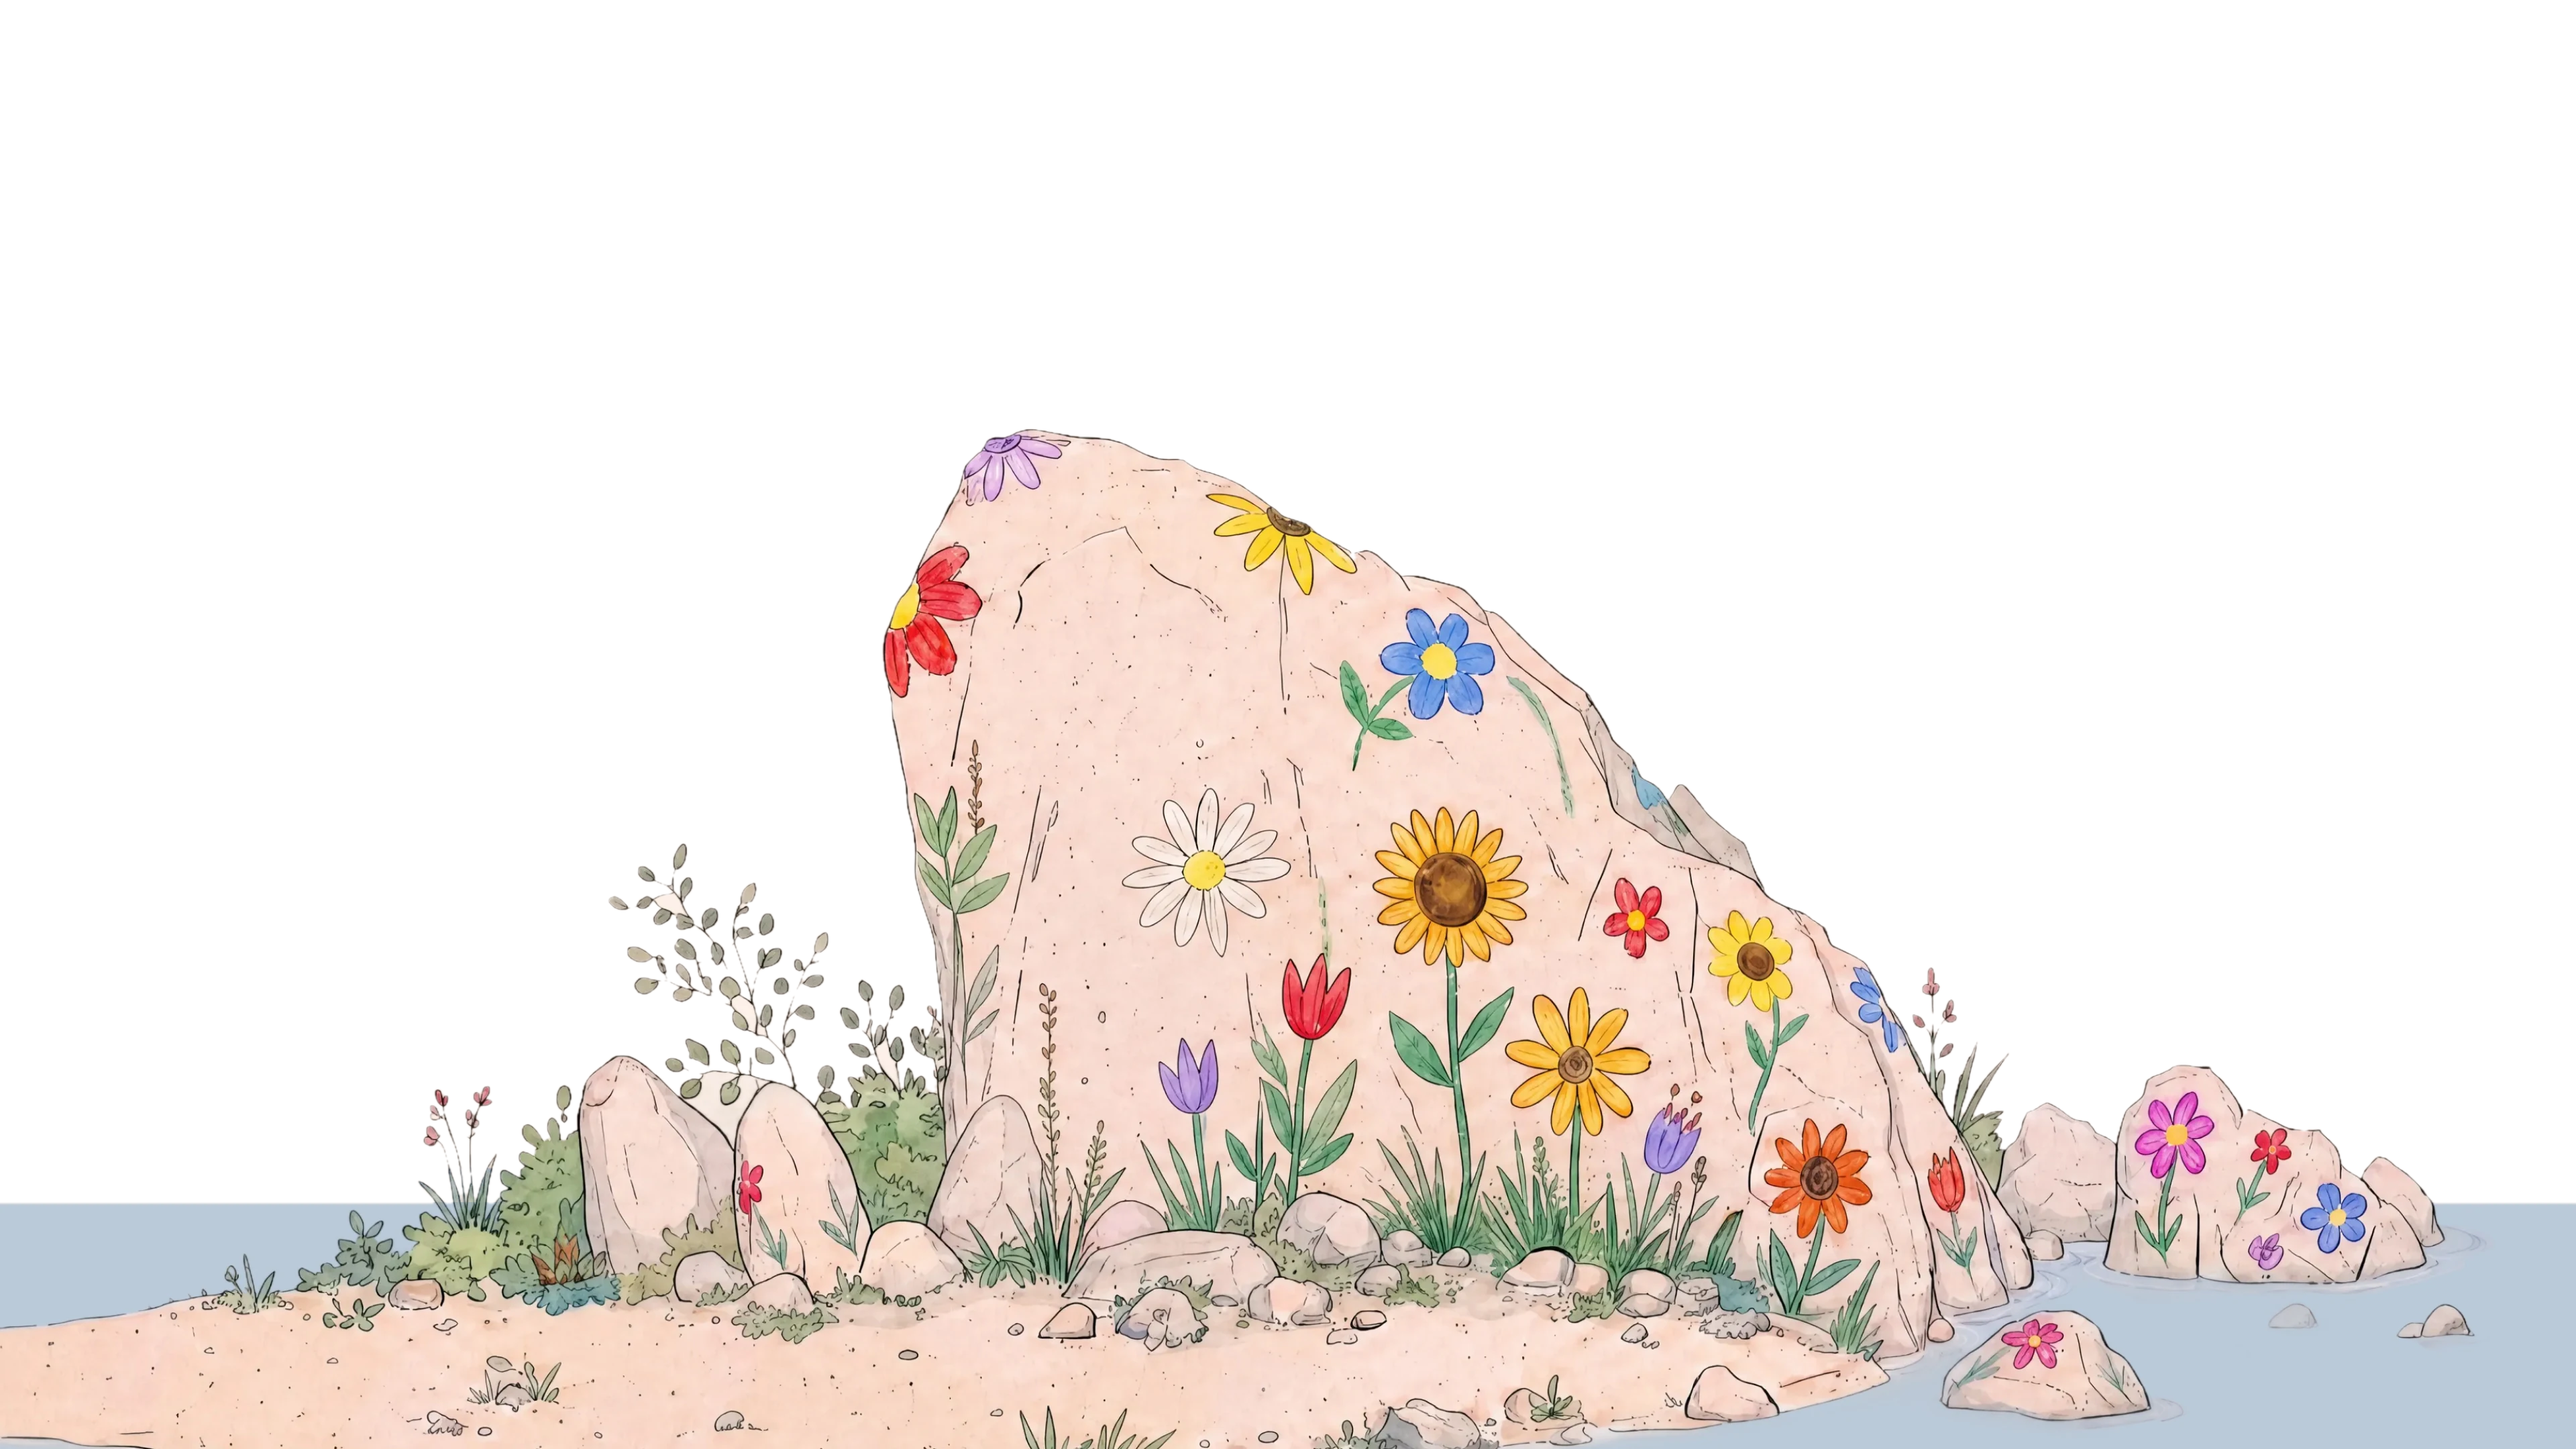
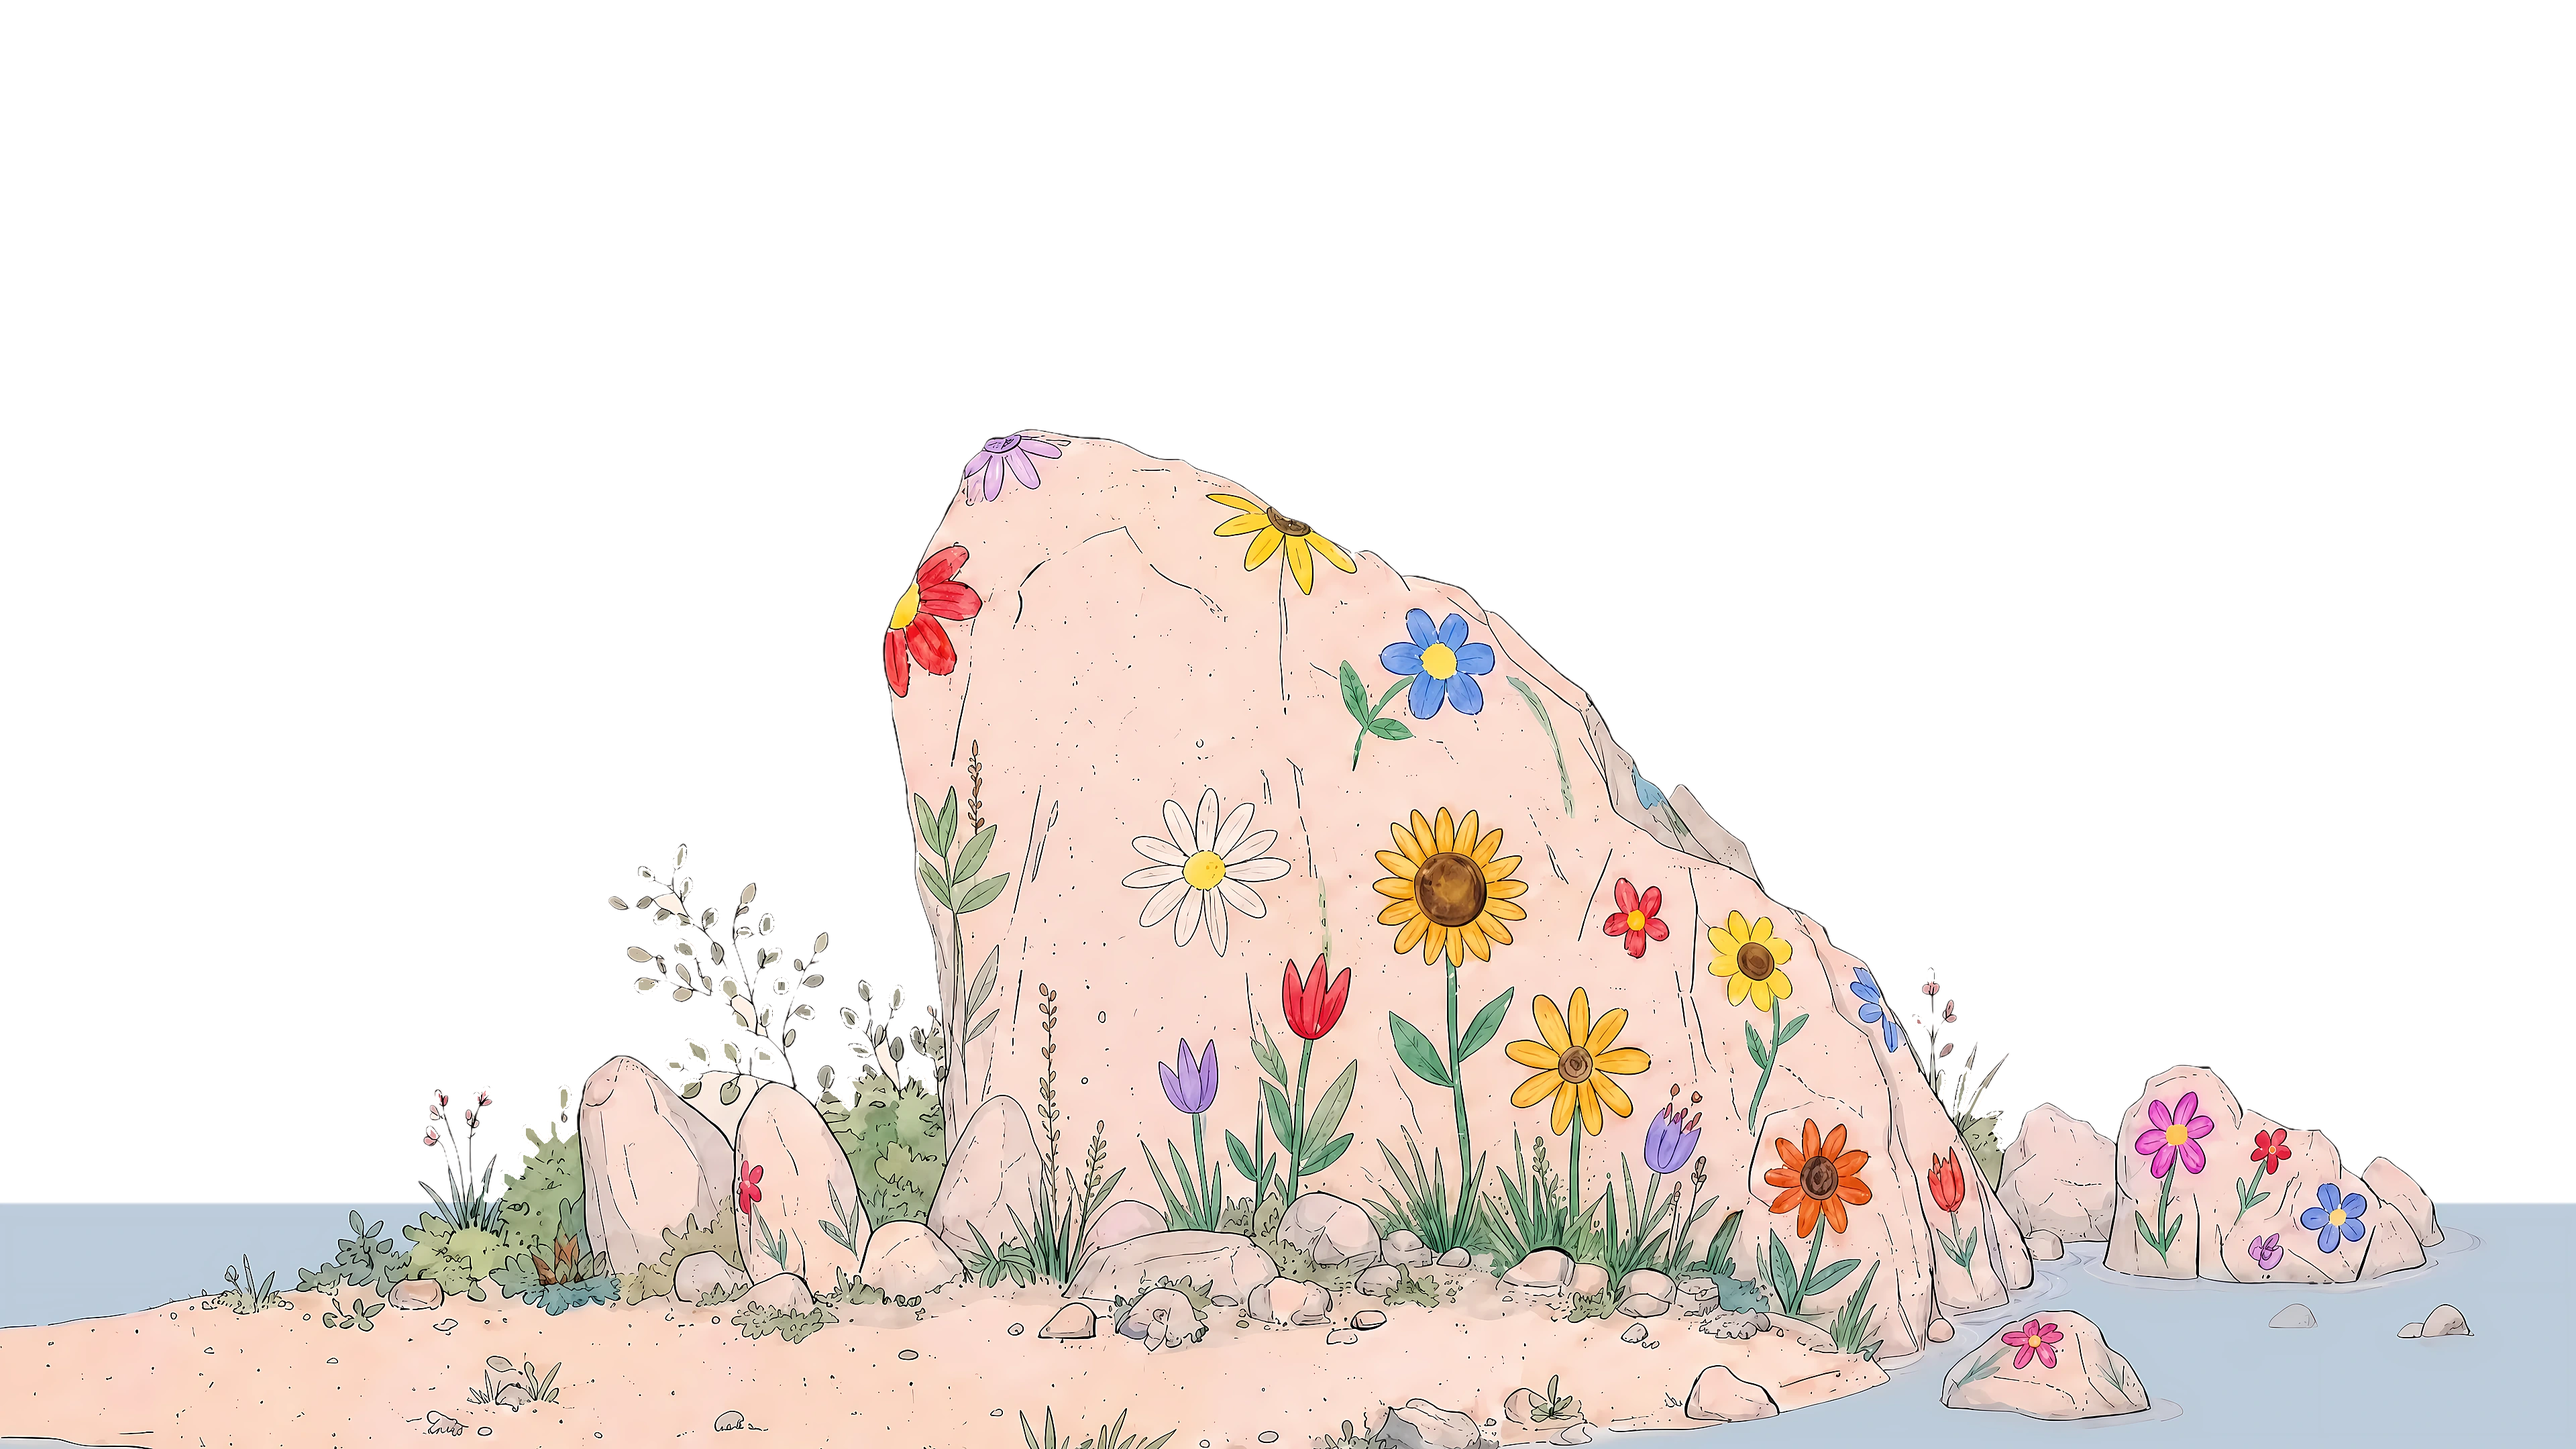
김영희님의 섬 화면에도 움직임과 선명한 그림: 바다 물결·흘러가는 구름·하늘 새·바위 아래 꽃과 덤불 살랑 (바위에 그려진 꽃은 그대로)

diff --git a/app/KYHdrawing/page.tsx b/app/KYHdrawing/page.tsx
@@ -5,6 +5,7 @@ import {
   TopNav,
 } from "@/app/components/TopNav";
 import { SettingsModal } from "@/app/components/SettingsModal";
+import { KYH_MOTION } from "@/lib/scene-motion";
 import { BackgroundPageLayout } from "@/components/background-page-layout";
 import { KYHMessageModal } from "@/components/KYHMessageModal";
 import { HoverMessageCard, useWallMessages } from "@/components/community/CommunityCards";
@@ -84,6 +85,7 @@ export default function KYHdrawingPage() {
         backgroundSrc="/KYHdrawing.jpg"
         skyScene="KYHdrawing"
         title="김영희 님의 섬"
+        motion={KYH_MOTION}
       />
 
       <div className="pointer-events-none fixed inset-0 z-30">

diff --git a/lib/scene-motion.ts b/lib/scene-motion.ts
@@ -92,3 +92,17 @@ export const STORAGE_INSIDE_MOTION: SceneMotionConfig = {
     ],
   },
 };
+
+// 김영희님의 섬 (/KYHdrawing): 꽃이 그려진 큰 바위. 바위 면의 꽃은 그대로, 땅에서 자란 꽃·풀과 왼쪽 덤불이 살랑
+export const KYH_MOTION: SceneMotionConfig = {
+  sea: { mask: "/scenes/kyh-sea-mask.png", fade: [82, 88] },
+  plants: [{ src: "/scenes/kyh-plants.webp", left: 8.385, top: 56.713, width: 69.479 }],
+  birds: {
+    sky: { left: 4, right: 96, top: 6, bottom: 32 },
+    width: 3.6,
+    starts: [
+      { start: [82, 16], size: 1 },
+      { start: [14, 24], size: 0.8 },
+    ],
+  },
+};
